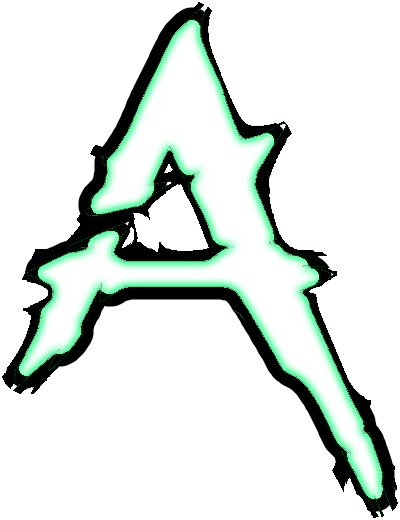
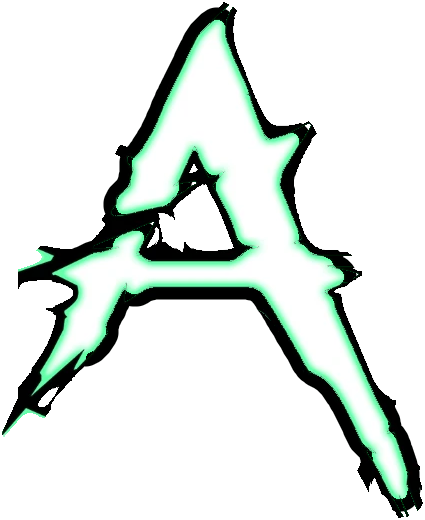
Hades II A: keep the thorns and the leg's spike at its bottom-left
The A's left leg runs on past its white fill as ink and glow, down to a
point by the H's curl, with thorns either side of it. None of that is
within an outline's width of the A, so it was lost. logo_letters.py gains
extra_ink: a polygon whose ink and glow belong to a piece however far from
its fill, kept clear of the neighbour's fill. Hades II uses one for the A.

Claude-Session: https://claude.ai/code/session_01LaEujuuQLDmiMkvddHrYGk

Changed region(s): [[0.0, 0.0, 1.0, 1.0]]

diff --git a/tools/logo_letters.py b/tools/logo_letters.py
@@ -59,6 +59,11 @@ so Godot never imports the source), is JSON:
     restore       [{"piece": name, "polygon": [[x, y], ...], "copy_column": x}]
                   — part of a piece another piece hid; it is added to the piece
                   and painted with the colours of the piece's column `copy_column`
+    extra_ink     [{"piece": name, "polygon": [[x, y], ...], "clear": px}] — the
+                  outline inside the polygon (ink and glow) belongs to the piece
+                  however far from its fill, except within `clear` of another
+                  piece's fill (default: the outline width). Hades' A's thorns,
+                  which run down into the gap by the H
     fill          optional {"min_alpha": 200, "min_brightness": 140,
                   "min_channel": n} — what counts as fill. Defaults suit a light
                   fill in a dark outline; min_channel keeps a coloured glow out
@@ -315,6 +320,15 @@ def cut(cfg_path: Path, preview: Path | None = None) -> list[Path]:
             tol = oc.get("match_tolerance")
             if tol is not None:
                 orig &= np.abs(A[..., :3] - lut[idx]).max(-1) <= tol
+            # Thorns: thin spikes of ink and glow that run further from the
+            # letter than any outline, often into the gap by a neighbour. Kept
+            # inside the config's polygon, clear of the neighbour's fill.
+            for ex in cfg.get("extra_ink", []):
+                if ex["piece"] != n:
+                    continue
+                d_other = np.min([D[o] for o in names if o != n], 0)
+                orig |= (_polygon_mask((H, W), ex["polygon"]) & solid & ~fill
+                         & (d_other > ex.get("clear", T - 2)))
             rgb[f] = colour[n][f]
             al[f] = 1
             rgb[band] = lut[idx[band]]
